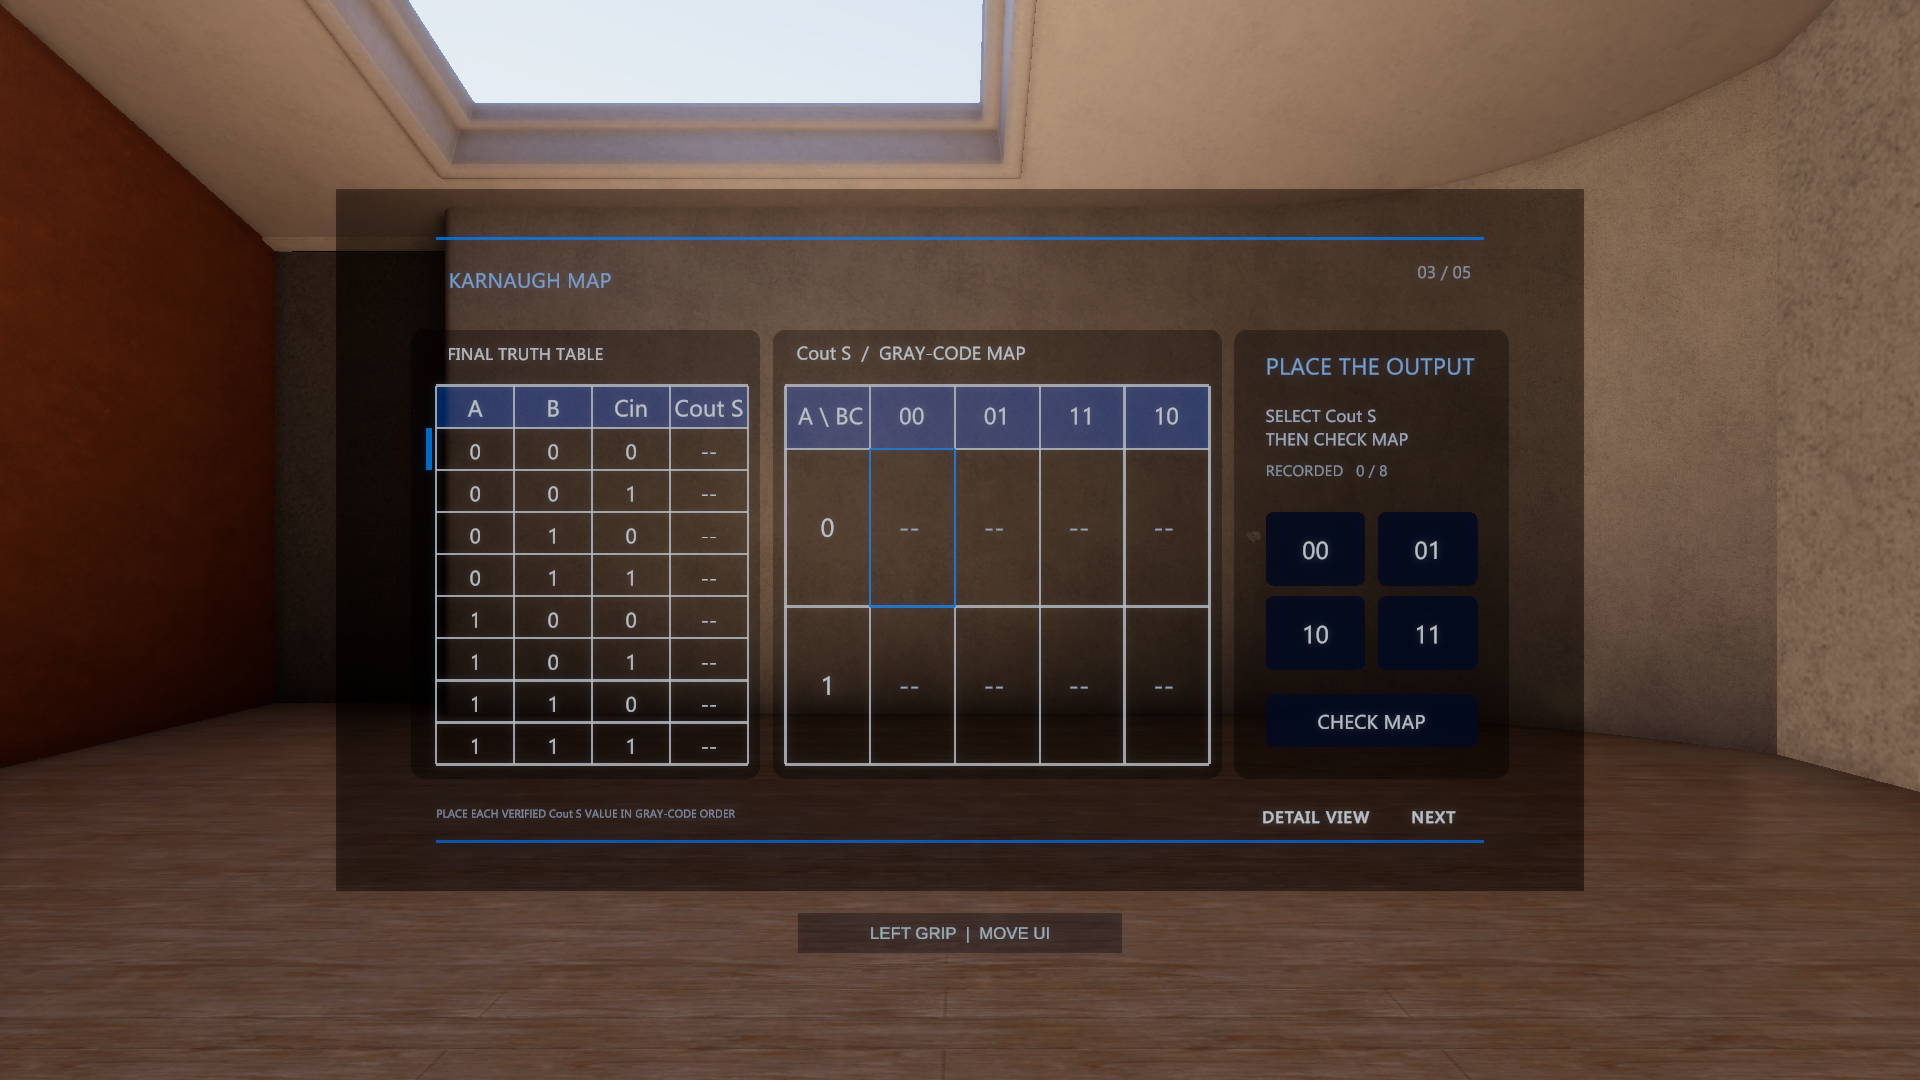
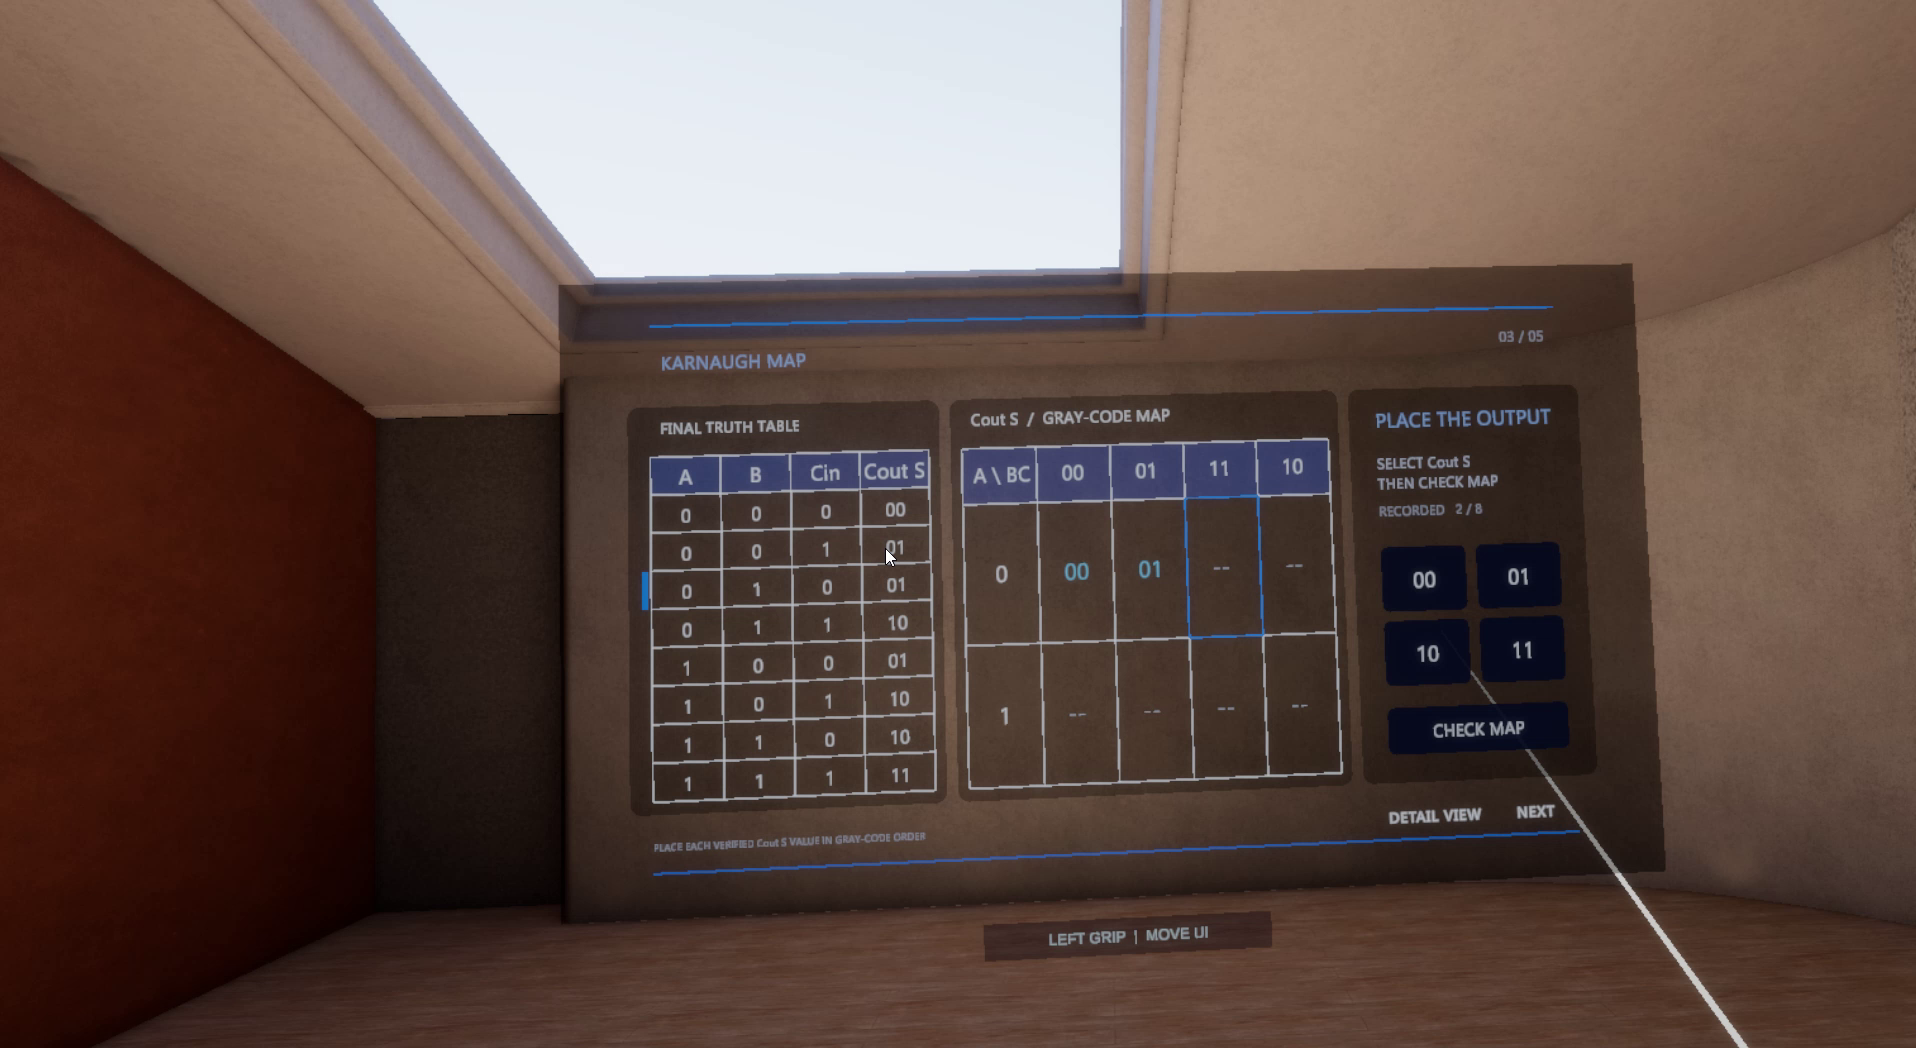
Refresh learning guide with actual ver4 VR recording screenshots

diff --git a/README.md b/README.md
@@ -1,139 +1,101 @@
 # Digital-VR
 
-## 프로젝트 소개
+VR에서 전가산기(Full Adder)를 배우는 학습 앱입니다. 입력값을 정리하고 진리표와 카르노맵을 완성한 뒤, 게이트와 배선을 직접 구성해 최종 논리식을 확인합니다.
 
-- VR 환경 전가산기(Full Adder) 논리회로 단계별 학습 Unity 프로젝트
-- 입력값 이진수 정리, 진리표·카르노맵 완성, VR 게이트·배선 직접 구성
-- 그린 선 대신 인식된 포트와 연결 구조 기준 회로 검증
+이 저장소는 Windows 실행 파일 ver1~ver4와 사용 안내를 제공합니다.
 
-## 저장소 안내
+## 다운로드 및 실행
 
-이 저장소는 VR 전가산기 학습 앱의 Windows 실행 파일(ver1~ver4)과 사용 안내를 제공합니다. Unity 프로젝트와 C# 소스 코드는 포함하지 않습니다.
+**[최신 버전 ver4 다운로드](Releases/Windows/ver4/DigitalVR2-Windows.zip)**
 
-- 실행 파일: [Releases/Windows](Releases/Windows)
-- 최신 버전: [ver4 다운로드](Releases/Windows/ver4/DigitalVR2-Windows.zip)
-- 화면 이미지: README의 단계별 학습 가이드에서 확인
+1. ZIP을 다운로드하고 전체 압축을 해제합니다.
+2. OpenXR 지원 VR HMD와 컨트롤러를 연결합니다.
+3. 압축 해제 폴더에서 `DigitalVR2.exe`를 실행합니다. 함께 들어 있는 데이터 폴더와 DLL 파일도 유지해야 합니다.
 
-## 핵심 기능
+Unity Editor 설치 없이 실행할 수 있습니다.
 
-- Introduction 안내 → 이진수 입력 → 최종 진리표 → 카르노맵 → VR 논리회로 → 최종 논리식 전체 학습 흐름
-- 전가산기 입력 `A`, `B`, `Cin` 조합별 `Cout`, `S` 결과 정리와 진리표 완성
-- 진리표 결과 기반 Gray-code 순서 카르노맵 구성과 8개 행 일치 확인
-- XR 환경에서 AND, OR, XOR 게이트와 배선을 직접 그리는 VR 회로 작성
-- `A`, `B`, `Cin` 입력과 `S`, `Cout` 출력 포트 기반 연결 구조 인식 및 `CircuitGraph` 변환
-- 접점과 단순 교차 구분, 끊긴 배선·연결되지 않은 포트·미인식 게이트·불완전한 구조 오류 피드백
-- XOR 2개, AND 2개, OR 1개 전가산기 표준 토폴로지 검증
-- 검증 완료 회로와 카르노맵 결과 기반 최종 논리식 학습 연결
+## 학습 가이드 — ver4
 
-## 학습 워크플로우
+아래 사진은 실제 VR 플레이 녹화 영상에서 추출한 화면입니다. 입력값과 회로 상태는 학습 진행에 따라 달라집니다.
 
-![VR 논리회로 학습 워크플로우](docs/images/learning-workflow.png)
+### 시작 안내
 
-Introduction: 학습 목표·진행 방식 안내
+학습 목표, 전체 학습 순서, 조작 방법을 확인합니다. `NEXT`로 안내를 넘기고 마지막 화면에서 `START`를 선택합니다. 왼손 그립으로 UI 위치를 조정할 수 있습니다.
 
-이후 5개 학습 단계 순차 진행
+![학습 목표](docs/screenshots/00-introduction-01.png)
 
-1. **Binary Encoding**: 문제 입력·출력 이진수 정리
-2. **Final Truth Table**: 전가산기 입력 조합별 `Cout`, `S` 결과 완성
-3. **Karnaugh Map**: 진리표 결과 카르노맵 배치와 논리 관계 확인
-4. **Logic Circuit**: VR 게이트·배선 구성과 전가산기 회로 완성
-5. **Final Logic Expression**: 검증 회로 기반 최종 논리식 확인
+<details>
+<summary>학습 순서와 조작 안내 보기</summary>
 
-## 단계별 학습 가이드
+![학습 순서](docs/screenshots/00-introduction-02.png)
 
-### 01. Binary Encoding
+![조작 안내](docs/screenshots/00-introduction-03.png)
 
-![Binary Encoding 화면](docs/screenshots/01-binary-encoding.png)
+</details>
 
-- **학습 목표**: `A`, `B`, `Cin` 입력 조합별 `S`, `Cout` 출력 관계 정리
-- **사용자 조작**: `S`, `Cout` 값 선택 → `Check` 확인 → `Record`로 행 저장
-- **검증·완료**: 8개 입력 행 전체 기록; 정답 `CORRECT / NEXT ROW`, 오답 `INCORRECT / RECHECK S / Cout`
+### 학습 문제
 
-### 02. Final Truth Table
+입력 `A`, `B`, `Cin`과 출력 `S`, `Cout`의 의미를 확인하고 `START`로 학습을 시작합니다.
 
-![Final Truth Table 화면](docs/screenshots/02-final-truth-table.png)
+![전가산기 학습 문제](docs/screenshots/00-question.png)
 
-![Final Truth Table 상세 오버레이](docs/screenshots/02-final-truth-table-detail.png)
+### 01. Binary Encoding — 이진수 입력
 
-- **학습 목표**: 8개 `A`, `B`, `Cin` 조합과 `Cout`, `S` 결과 전체 확인
-- **사용자 조작**: 이전 단계 기록 행 검토 → 설명 화면으로 논리 관계 확인
-- **검증·완료**: 이진수 입력 단계에서 저장한 8개 결과 기반 진리표 완성; 카르노맵 단계 입력 기준 확보
+각 입력 조합에 맞는 `S`, `Cout` 값을 선택합니다. `CHECK ANSWER`로 정답을 확인하고 `RECORD TO TABLE`로 저장합니다. 8개 행을 모두 기록하면 최종 진리표가 표시됩니다.
 
-### 03. Karnaugh Map
+![이진수 입력](docs/screenshots/01-binary-encoding.png)
 
-![Karnaugh Map 화면](docs/screenshots/03-karnaugh-map.png)
+### 02. Final Truth Table — 최종 진리표
 
-![Karnaugh Map 상세 선택 화면](docs/screenshots/03-karnaugh-map-detail.png)
+기록한 8개 입력 조합의 결과와 완료 요약을 확인합니다. `DETAIL VIEW`에서 전가산기의 입출력 관계를 살펴보고, `NEXT`로 카르노맵에 진입합니다.
 
-- **학습 목표**: 진리표 `Cout`, `S` 결과를 Gray-code 순서 카르노맵으로 재배치
-- **사용자 조작**: 각 칸의 `Cout S` 값 `00`, `01`, `10`, `11` 선택 → `Check Map` 실행
-- **검증·완료**: Gray-code 순서 8개 행 전체 일치; 진행 상태 `RECORDED 0 / 8`, 완료 `KARNAUGH MAP COMPLETE`
+![완성 진리표](docs/screenshots/02-final-truth-table.png)
 
-### 04. Logic Circuit
+<details>
+<summary>진리표 상세 설명 보기</summary>
 
-![Logic Circuit 화면](docs/screenshots/04-logic-circuit.png)
+![전가산기 상세 설명](docs/screenshots/02-final-truth-table-detail.png)
 
-- **학습 목표**: 전가산기 논리 구조를 XR 환경의 게이트·배선으로 표현
-- **사용자 조작**: AND, OR, XOR 게이트와 배선 작성; `A`, `B`, `Cin` 입력을 `S`, `Cout` 출력까지 연결
-- **검증·완료**: 포트 연결·접점·교차 상태 확인; XOR 2개, AND 2개, OR 1개 전가산기 토폴로지 인식 후 최종 논리식 단계 연결
+</details>
 
-### 05. Final Logic Expression
+### 03. Karnaugh Map — 카르노맵
 
-![Final Logic Expression 화면](docs/screenshots/05-final-expression.png)
+진리표의 `Cout S` 값을 Gray-code 순서 `00 → 01 → 11 → 10`에 맞게 배치합니다. 강조된 칸의 값을 `00`, `01`, `10`, `11` 중에서 선택하고 `CHECK MAP`으로 확인합니다.
 
-- **학습 목표**: 완성 진리표·카르노맵·회로 구조를 `S`, `Cout` 논리식으로 정리
-- **사용자 조작**: 대상 출력 `S` 또는 `Cout` 선택 → 토큰으로 식 구성 → `Check S` 또는 `Check Cout` 실행; `Undo`, `Clear` 사용 가능
-- **검증·완료**: 8개 입력 조합 전체 의미 비교; 성공 `S EXPRESSION VERIFIED` 또는 `Cout EXPRESSION VERIFIED`, 실패 `NOT EQUIVALENT`
+![카르노맵 입력](docs/screenshots/03-karnaugh-map.png)
 
-## 주요 화면 및 조작
+<details>
+<summary>카르노맵 상세 설명과 완성 화면 보기</summary>
 
-| 화면 | 역할 | 주요 조작 |
+![카르노맵 상세 설명](docs/screenshots/03-karnaugh-map-detail.png)
+
+![카르노맵 완성](docs/screenshots/03-karnaugh-map-complete.png)
+
+</details>
+
+8개 칸을 완성한 뒤 `NEXT`로 논리회로 단계에 진입합니다.
+
+### 04. Logic Circuit — 논리회로 작성
+
+왼쪽의 진리표·카르노맵을 참고해 VR 캔버스에 전가산기를 구성합니다. 오른쪽 도구에서 `PEN`, `AND GATE`, `OR GATE`, `XOR GATE`를 선택해 게이트와 배선을 작성합니다.
+
+![회로 가이드와 도구 패널](docs/screenshots/04-logic-circuit.png)
+
+`ERASER`, `UNDO`, `REDO`, `CLEAR`로 수정하고 `PLAY`로 흐름 효과를 확인합니다. `CHECK CIRCUIT`로 게이트·배선 연결을 검증합니다.
+
+![VR에서 게이트와 배선을 작성한 화면](docs/screenshots/04-logic-circuit-drawing.png)
+
+### 05. Final Logic Expression — 최종 논리식
+
+진리표·카르노맵과 회로 다이어그램을 참고해 논리식을 작성합니다. `S` 또는 `Cout`을 선택하고 입력·연산자 토큰으로 식을 구성한 뒤 `CHECK S` 또는 `CHECK Cout`으로 확인합니다. `UNDO`와 `CLEAR`로 수정할 수 있습니다.
+
+![최종 논리식과 회로 다이어그램](docs/screenshots/05-final-expression.png)
+
+## 버전별 다운로드
+
+| 버전 | 다운로드 | 주요 변경 |
 | --- | --- | --- |
-| Introduction 01-03 | 학습 목표와 전체 흐름 안내 | `NEXT`, `PREVIOUS`, `START`로 안내 화면 이동 및 학습 시작 |
-| 문제·이진수 입력 | 전가산기 문제와 입력값 정리 | 단계별 입력 UI로 값 선택 및 다음 단계 이동 |
-| 최종 진리표 | `A`, `B`, `Cin` 조합에 따른 `Cout`, `S` 결과 기록 | 각 행의 결과 입력 후 검토 |
-| 카르노맵 | 진리표 결과를 Gray-code 순서로 재구성 | `00`, `01`, `10`, `11` 값 선택 후 `Check Map`으로 확인 |
-| 논리회로 | VR 캔버스에서 게이트와 배선 작성 | 게이트·배선 그리기, 연결 구조 검증 |
-| 최종 논리식 | 회로 학습 결과 정리 | 이전 단계에서 완성한 논리 관계 확인 |
-
-## 검증 방식
-
-- 선 모양이 아닌 인식 게이트 포트·배선 연결 구조 기반 `CircuitGraph` 검증
-- 외부 입력 포트 `A`, `B`, `Cin`과 출력 포트 `S`, `Cout` 연결 확인
-- AND, OR, XOR 게이트·배선 인식
-- 접점 없는 교차: 비연결 교차 처리
-- 끊긴 끝점·연결되지 않은 포트·미인식 게이트·불완전한 회로 구조: 오류 피드백 대상
-- XOR 2개·AND 2개·OR 1개 전가산기 토폴로지 검증
-- 진리표 `Cout`, `S` 값과 카르노맵 8개 행 전체 일치: 완료 조건
-
-## Windows 실행 파일 및 릴리스
-
-Windows 실행 파일 위치: [`Releases/Windows`](Releases/Windows)
-
-| 버전 | 파일 | 상세 변경 |
-| --- | --- | --- |
-| ver1 | [`DigitalVR2-Windows.zip`](Releases/Windows/ver1/DigitalVR2-Windows.zip) | 최초 독립 실행형 Windows 테스트 빌드<br>기본 학습 흐름·UI 배치 기준선<br>이진 진리표 입력 흐름 포함 |
-| ver2 | [`DigitalVR2-Windows.zip`](Releases/Windows/ver2/DigitalVR2-Windows.zip) | Stage 5 회로 다이어그램 전용 결과 화면 추가<br>격자 기반 배선 드로잉 흐름 정비<br>HMD 화면 UI 배치 보정 반영 |
-| ver3 | [`DigitalVR2-Windows.zip`](Releases/Windows/ver3/DigitalVR2-Windows.zip) | 답안 가이드 스냅 릴리스 동작 추가<br>드로잉 스트로크 렌더링·가이드 표시 개선<br>회로 연결 작성 피드백 보강 |
-| ver4 | [`DigitalVR2-Windows.zip`](Releases/Windows/ver4/DigitalVR2-Windows.zip) | 최신 Windows 빌드<br>드로잉 인식·렌더링 및 단계 전환 개선<br>회로 전류 흐름 효과·Stage 5 동적 회로 다이어그램 추가<br>워크플로우 UI 위치 조정 기능 반영 |
-
-1. 원하는 ZIP 파일 다운로드·압축 해제
-2. 압축 해제 폴더의 `DigitalVR2.exe` 실행
-3. VR HMD·컨트롤러 연결 상태 확인
-
-## 저장소 구조
-
-```text
-Digital-VR/
-├─ README.md                    앱 소개·학습 가이드·실행 안내
-├─ docs/
-│  ├─ images/                   학습 워크플로우 이미지
-│  └─ screenshots/              단계별 화면 이미지
-└─ Releases/
-   ├─ README.md                 배포 파일 안내
-   └─ Windows/
-      ├─ ver1/DigitalVR2-Windows.zip
-      ├─ ver2/DigitalVR2-Windows.zip
-      ├─ ver3/DigitalVR2-Windows.zip
-      └─ ver4/DigitalVR2-Windows.zip
-```
+| ver4 | [Windows ZIP](Releases/Windows/ver4/DigitalVR2-Windows.zip) | 드로잉 인식·렌더링과 단계 전환 개선, 회로 전류 흐름 효과, UI 위치 조정 |
+| ver3 | [Windows ZIP](Releases/Windows/ver3/DigitalVR2-Windows.zip) | 답안 가이드 스냅 동작과 스트로크·가이드 표시 개선 |
+| ver2 | [Windows ZIP](Releases/Windows/ver2/DigitalVR2-Windows.zip) | 최종 단계 회로 다이어그램 추가, 격자 배선과 HMD UI 배치 정비 |
+| ver1 | [Windows ZIP](Releases/Windows/ver1/DigitalVR2-Windows.zip) | 최초 Windows 테스트 빌드, 기본 학습 흐름과 이진 진리표 입력 |
